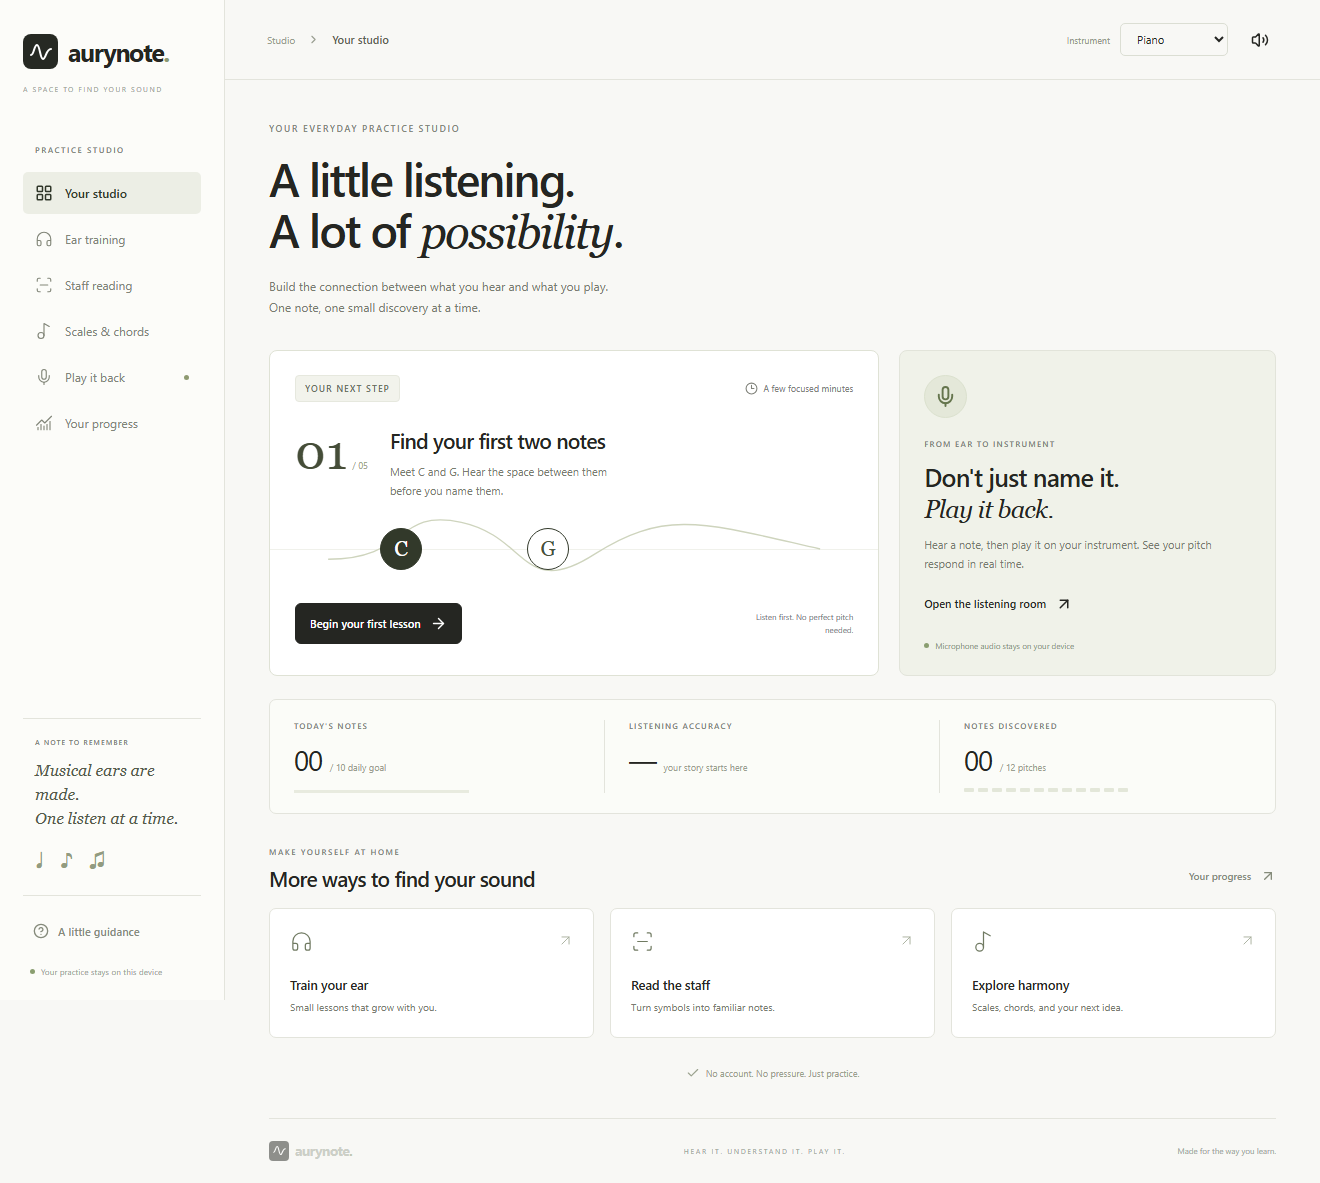
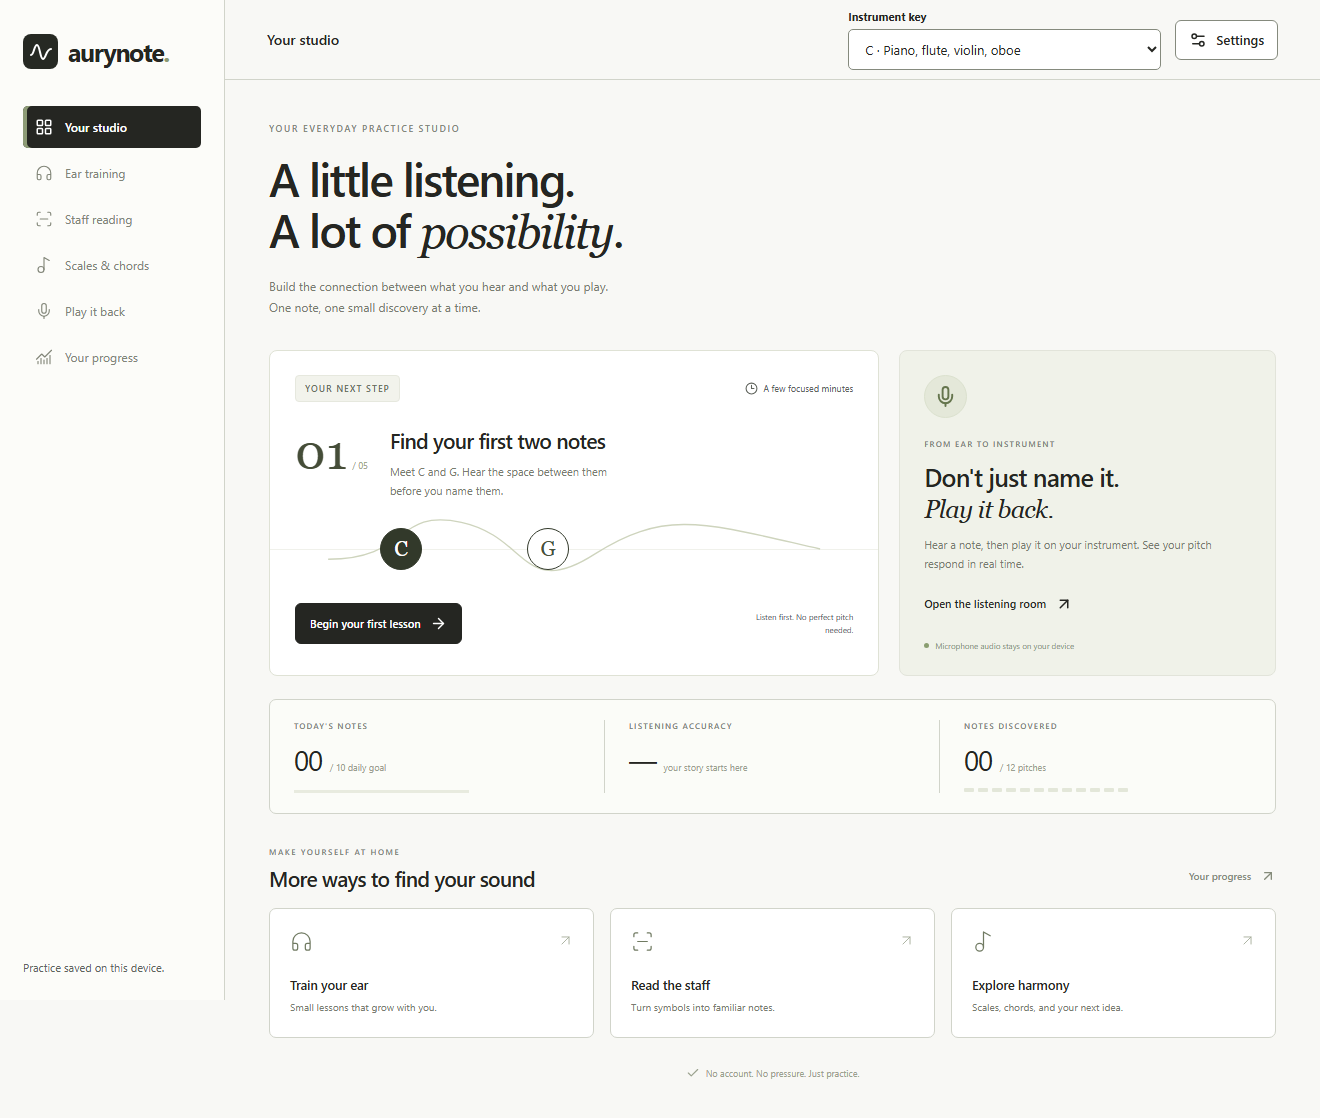
Prepare the simpler practice update

diff --git a/desktop/e2e/settings.spec.ts b/desktop/e2e/settings.spec.ts
@@ -62,3 +62,15 @@ test("correct answers show a swift popup and advance without a review panel", as
   });
   await expect(page.locator(".correct-popup")).toHaveCount(0);
 });
+
+test('settings pauses a wrong-answer review', async ({ page }) => {
+  await page.goto('/');
+  await page.getByRole('button', { name: 'Staff reading', exact: true }).click();
+  await page.getByRole('button', { name: 'C', exact: true }).click();
+  await expect(page.locator('.feedback.mistake')).toBeVisible();
+  await page.getByRole('button', { name: 'Settings', exact: true }).click();
+  await page.waitForTimeout(3400);
+  await expect(page.getByText('QUESTION 01', { exact: true })).toBeAttached();
+  await page.getByRole('button', { name: 'Done', exact: true }).click();
+  await expect(page.getByText('QUESTION 02', { exact: true })).toBeVisible();
+});
